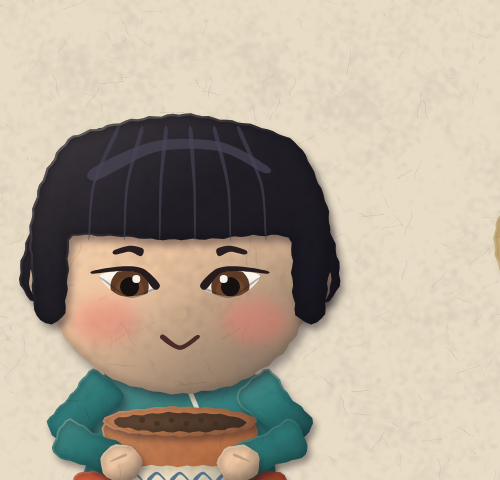
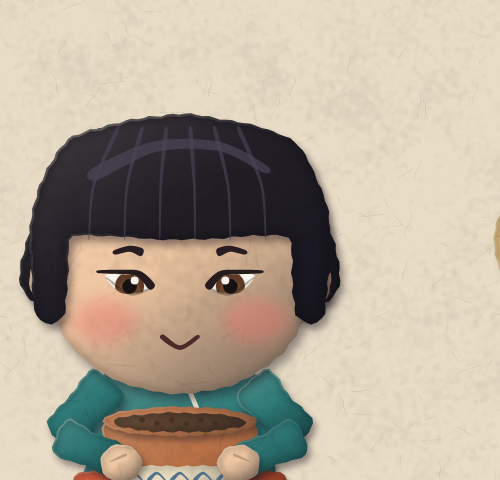
O Pote Vazio: olho do Ping menor e mais alongado
Claude-Session: https://claude.ai/code/session_01X11VASBScBsp7AUyCmMJeZ

Changed region(s): [[0.39, 0.5312, 0.54, 0.625], [0.18, 0.5312, 0.33, 0.625]]

diff --git a/pote_vazio/characters.py b/pote_vazio/characters.py
@@ -69,7 +69,7 @@ def almond_eye(c, x, y, kind, col, side=1, look=(0, 0), wet=False, rx=8.2, ry=6.
     bot = [(ex + side * rx * 0.3, ey + ry * sy * 0.62), (ex - side * rx * 0.4, ey + ry * sy * 0.55)]
     if mono:   # pálpebra única: topo mais reto, canto externo erguido, olho mais alongado
         ic = (ex - side * rx, ey + 1.2)
-        oc = (ex + side * rx * 1.12, ey - ry * sy * 0.55)
+        oc = (ex + side * rx * 1.12, ey - ry * sy * 0.75)
         top = [ic, (ex - side * rx * 0.45, ey - ry * sy * 0.7), (ex + side * rx * 0.35, ey - ry * sy * 0.85), oc]
         bot = [(ex + side * rx * 0.45, ey + ry * sy * 0.55), (ex - side * rx * 0.35, ey + ry * sy * 0.6)]
     shape = smooth(top + bot, tension=0.5)
@@ -218,7 +218,7 @@ def ping_head(c, expr='neutro', t=0.0, mouth_kind=None, mouth_open=1.0, blink=0.
     look = e.get('look', (0, 0))
     for s in (-1, 1):
         almond_eye(c, hx + s * 20, hy + 14, 'closed' if blink > 0.5 else e['eyes'], P['eye'], side=s, look=look,
-                   wet=e.get('wet', False), rx=10.5, ry=6.6, mono=True)
+                   wet=e.get('wet', False), rx=8.6, ry=5.0, mono=True)
     # nariz mínimo
     flat(c, ell(hx, hy + 25, 2.8, 2.2), mul(P['skin'], 0.84), 0.9)
     mouth(c, hx, hy + 36, mouth_kind or e['mouth'], s=0.78, op=mouth_open)
